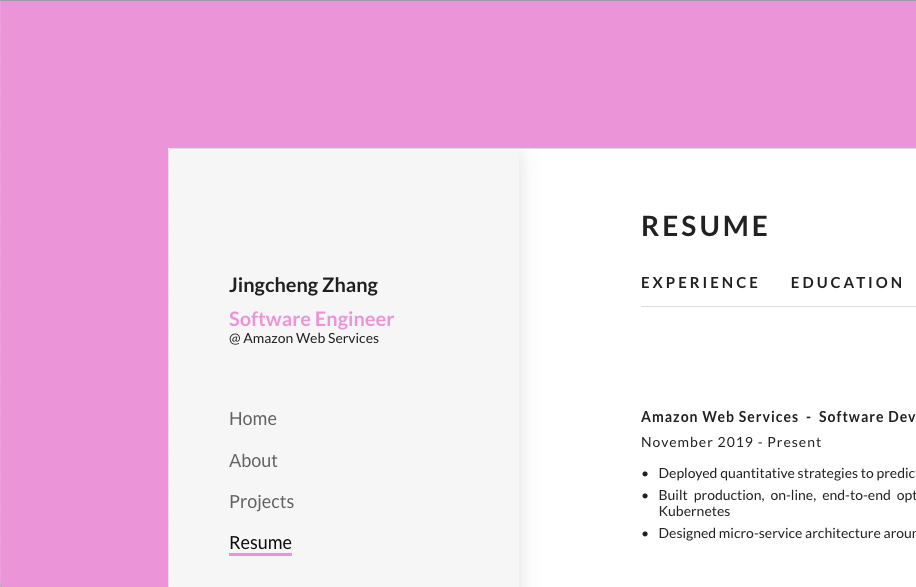
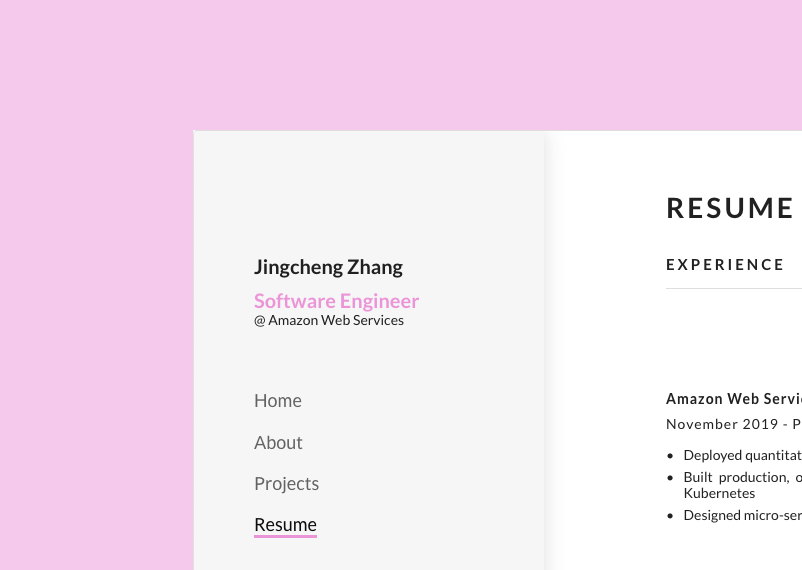
Update pink color code used

diff --git a/src/components/mainContent/projectsPage/ProjectsPage.tsx b/src/components/mainContent/projectsPage/ProjectsPage.tsx
@@ -1,5 +1,5 @@
 import React from 'react';
-import { Container, Header, Divider, Transition, Item } from 'semantic-ui-react';
+import { Container, Header, Divider, Transition, Item, Image } from 'semantic-ui-react';
 
 import messages from 'messages/messages';
 import { useTransitionEffect, animationDuration } from 'utils/transitionUtil';
@@ -16,7 +16,7 @@ const dummyProject = {
   projectHref: 'https://github.com/jesse7zhangjc/about-jingcheng',
   desc: 'A simple personal website built from scratch with React',
   imgSrc: '/assets/images/projects/aboutJingchengPreview.png',
-  stack: ['React', 'Semantic UI']
+  stack: ['React', 'Semantic UI React']
 };
 const projectList: IProject[] = [
   dummyProject,

diff --git a/src/components/sideNavigationBar/sideNavigationBar.css b/src/components/sideNavigationBar/sideNavigationBar.css
@@ -32,7 +32,7 @@
 }
 
 .sidebar .menu .item.active span {
-  border-bottom: 3px solid #FC97DF;
+  border-bottom: 3px solid #FB9DDF;
 }
 
 .sidebar .menu .item:not(.active) span {
@@ -42,7 +42,7 @@
 .sidebar .menu .item:not(.active) span:after {
   content: '';
   display: block;
-  border-bottom: 3px solid #FC97DF;
+  border-bottom: 3px solid #FB9DDF;
   width: 0;
   position: absolute;
   left: 0;
@@ -66,7 +66,7 @@
 }
 
 .sidebar .contact-icon-container a:hover {
-  color: #FC97DF;
+  color: #FB9DDF;
   -webkit-transition: 0.5s ease;
   transition: 0.5s ease;
 }
